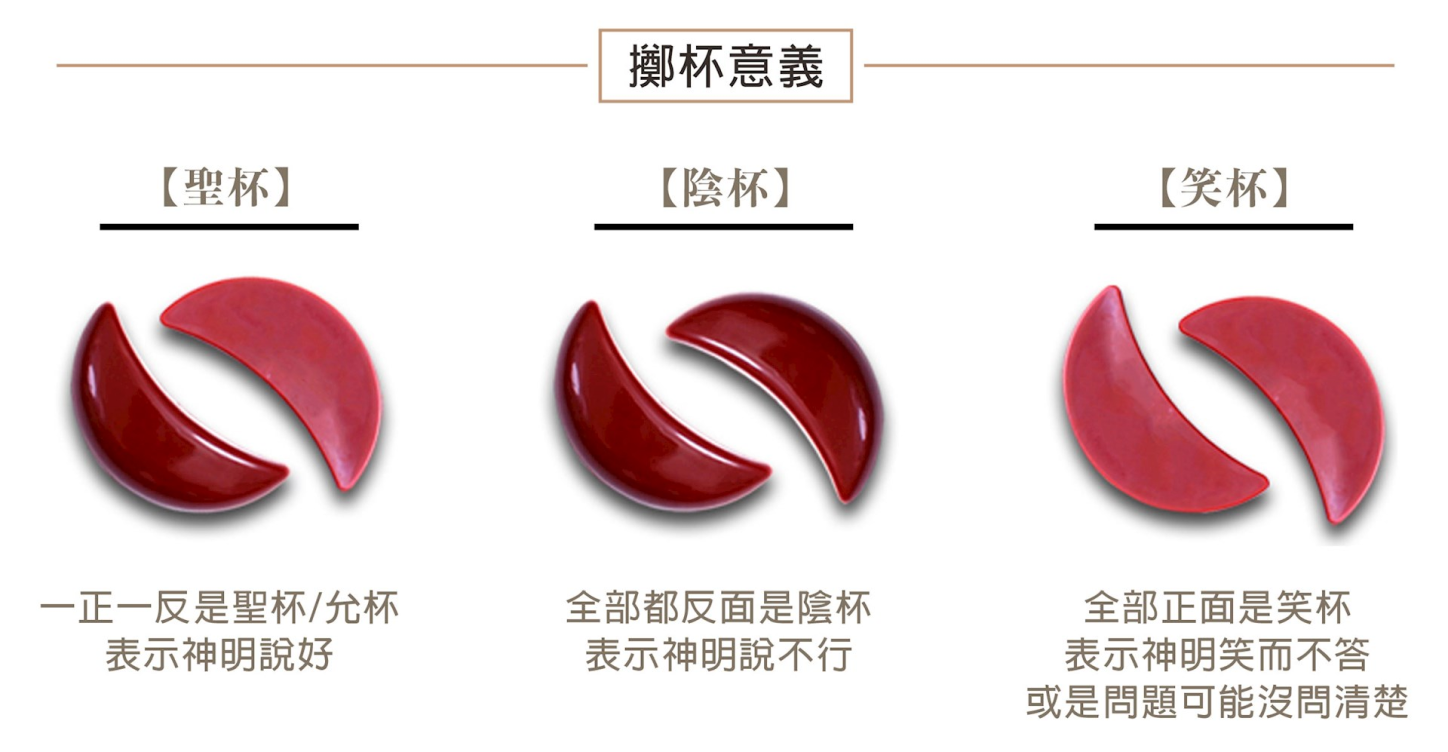
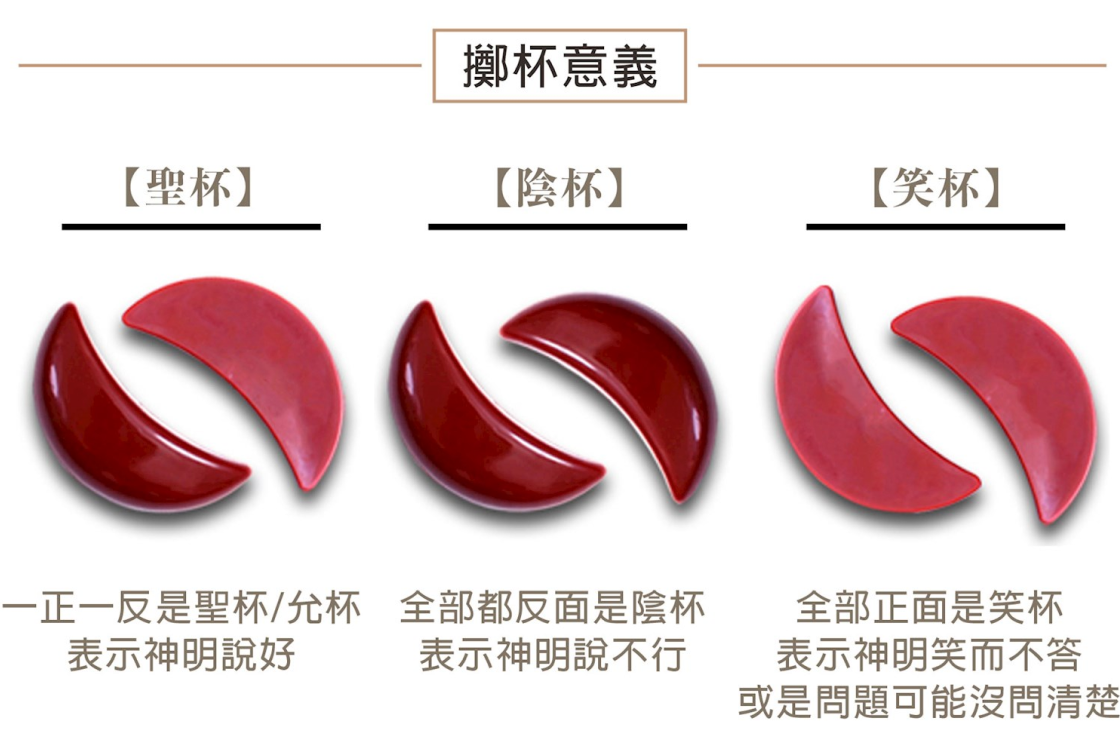
更新輪播4-1圖片、加入lightbox.css、更新knows的css

diff --git a/lib/lightbox.css b/lib/lightbox.css
@@ -32,7 +32,7 @@ body.lb-disable-scrolling {
   border-radius: 20px;
 
   /* Image border */
-  border: 4px solid white;
+  border: 4px solid rgba(255,255,255,0);
 }
 
 .lightbox a img {
@@ -49,7 +49,7 @@ body.lb-disable-scrolling {
 
   /* Background color behind image.
      This is visible during transitions. */
-  background-color: white;
+  background-color: rgba(255,255,255,0);
 }
 
 .lb-outerContainer:after {

diff --git a/css/knows.css b/css/knows.css
@@ -613,6 +613,8 @@ span {
 
 #map img {
     width: 100%;
+    max-width: 1800px;
+    /* margin: 0 auto; */
 }
 
 
